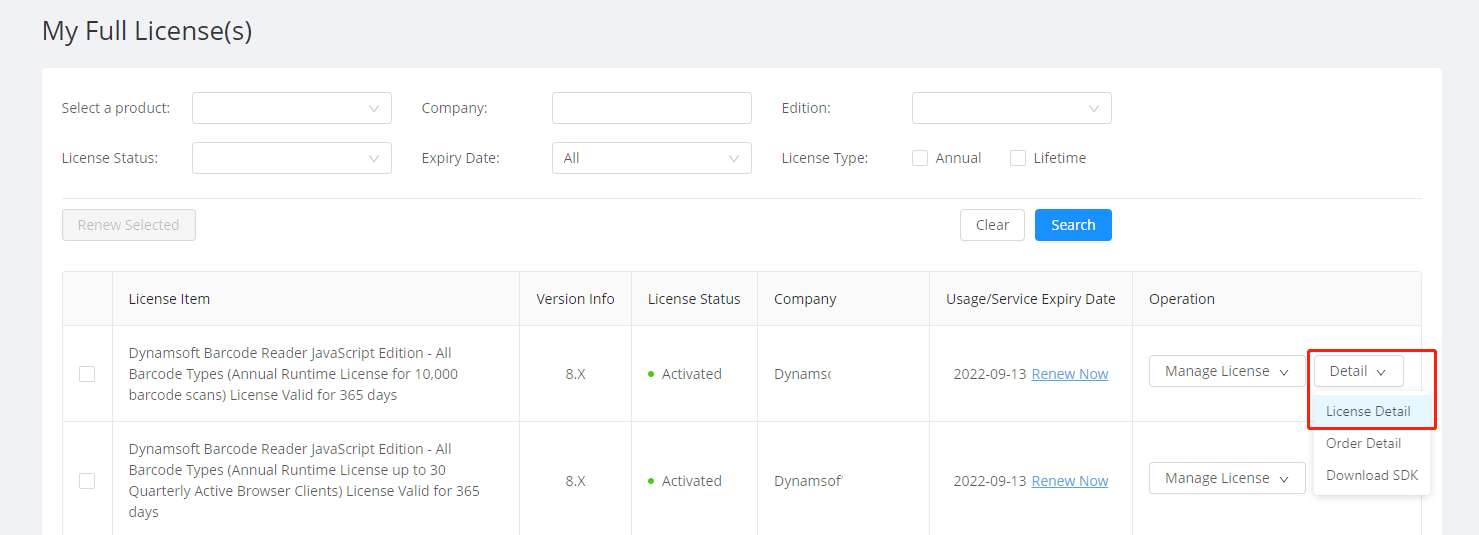
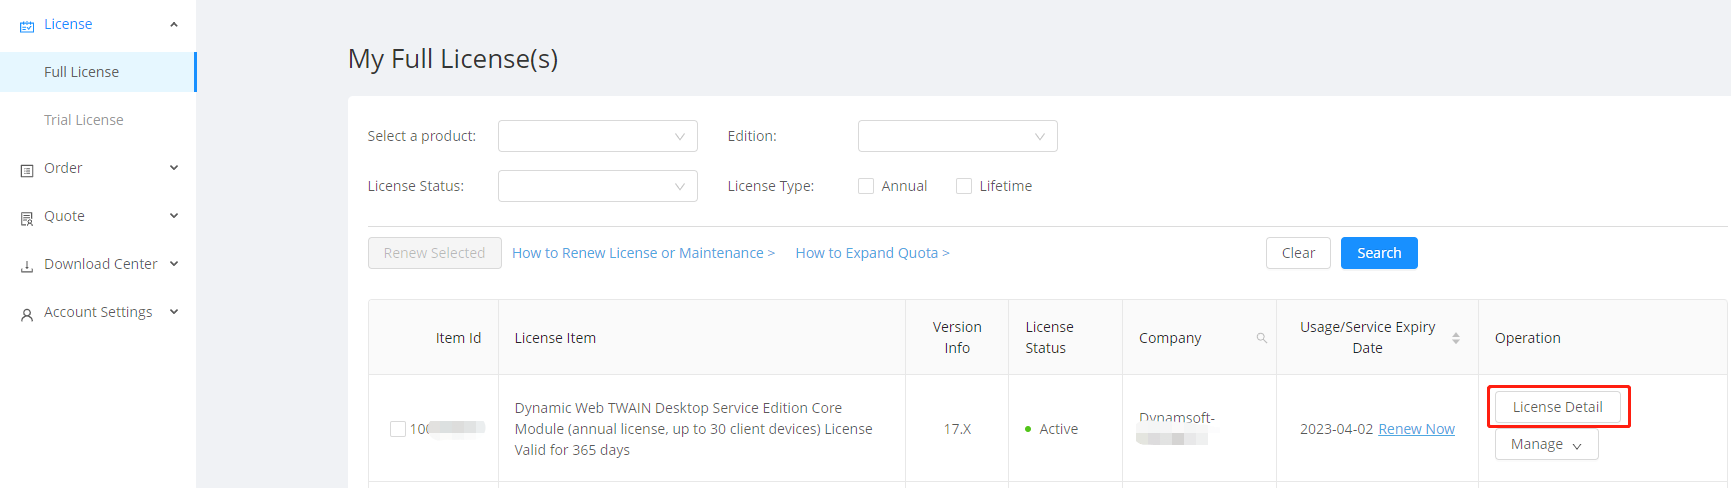
update

diff --git a/customer-portal/request-upgrade.md b/customer-portal/request-upgrade.md
@@ -13,11 +13,10 @@ needAutoGenerateSidebar: true
 
 If the maintenance of your license(s) is valid, you can request to upgrade it for free. Otherwise, you need to pay for the upgrade.
 
-You can check the maintenance of your license(s) in **[Customer Portal](https://www.dynamsoft.com/customer/) - License - Full License**. "Service Expiry Date" for each license means the maintenance expiry date.
+You can check the maintenance of your license(s) in **[Customer Portal](https://www.dynamsoft.com/customer/) - License - Full License**. "Usage/Service Expiry Date" for each license means the license or maintenance expiry date.
 
 ![Service-Expiry1]({{site.assets}}img/Service-Expiry-1.png)
 
 ## Request for a free upgrade of the license(s)
 
-If you want to upgrade your license from the old version to the newer version, please feel free to contact us via email <sales@dynamsoft.com>.
-
+If you want to upgrade your license from the old version to the newer version, you can click "Upgrade" button under "Manage", or contact us via email <sales@dynamsoft.com>.
